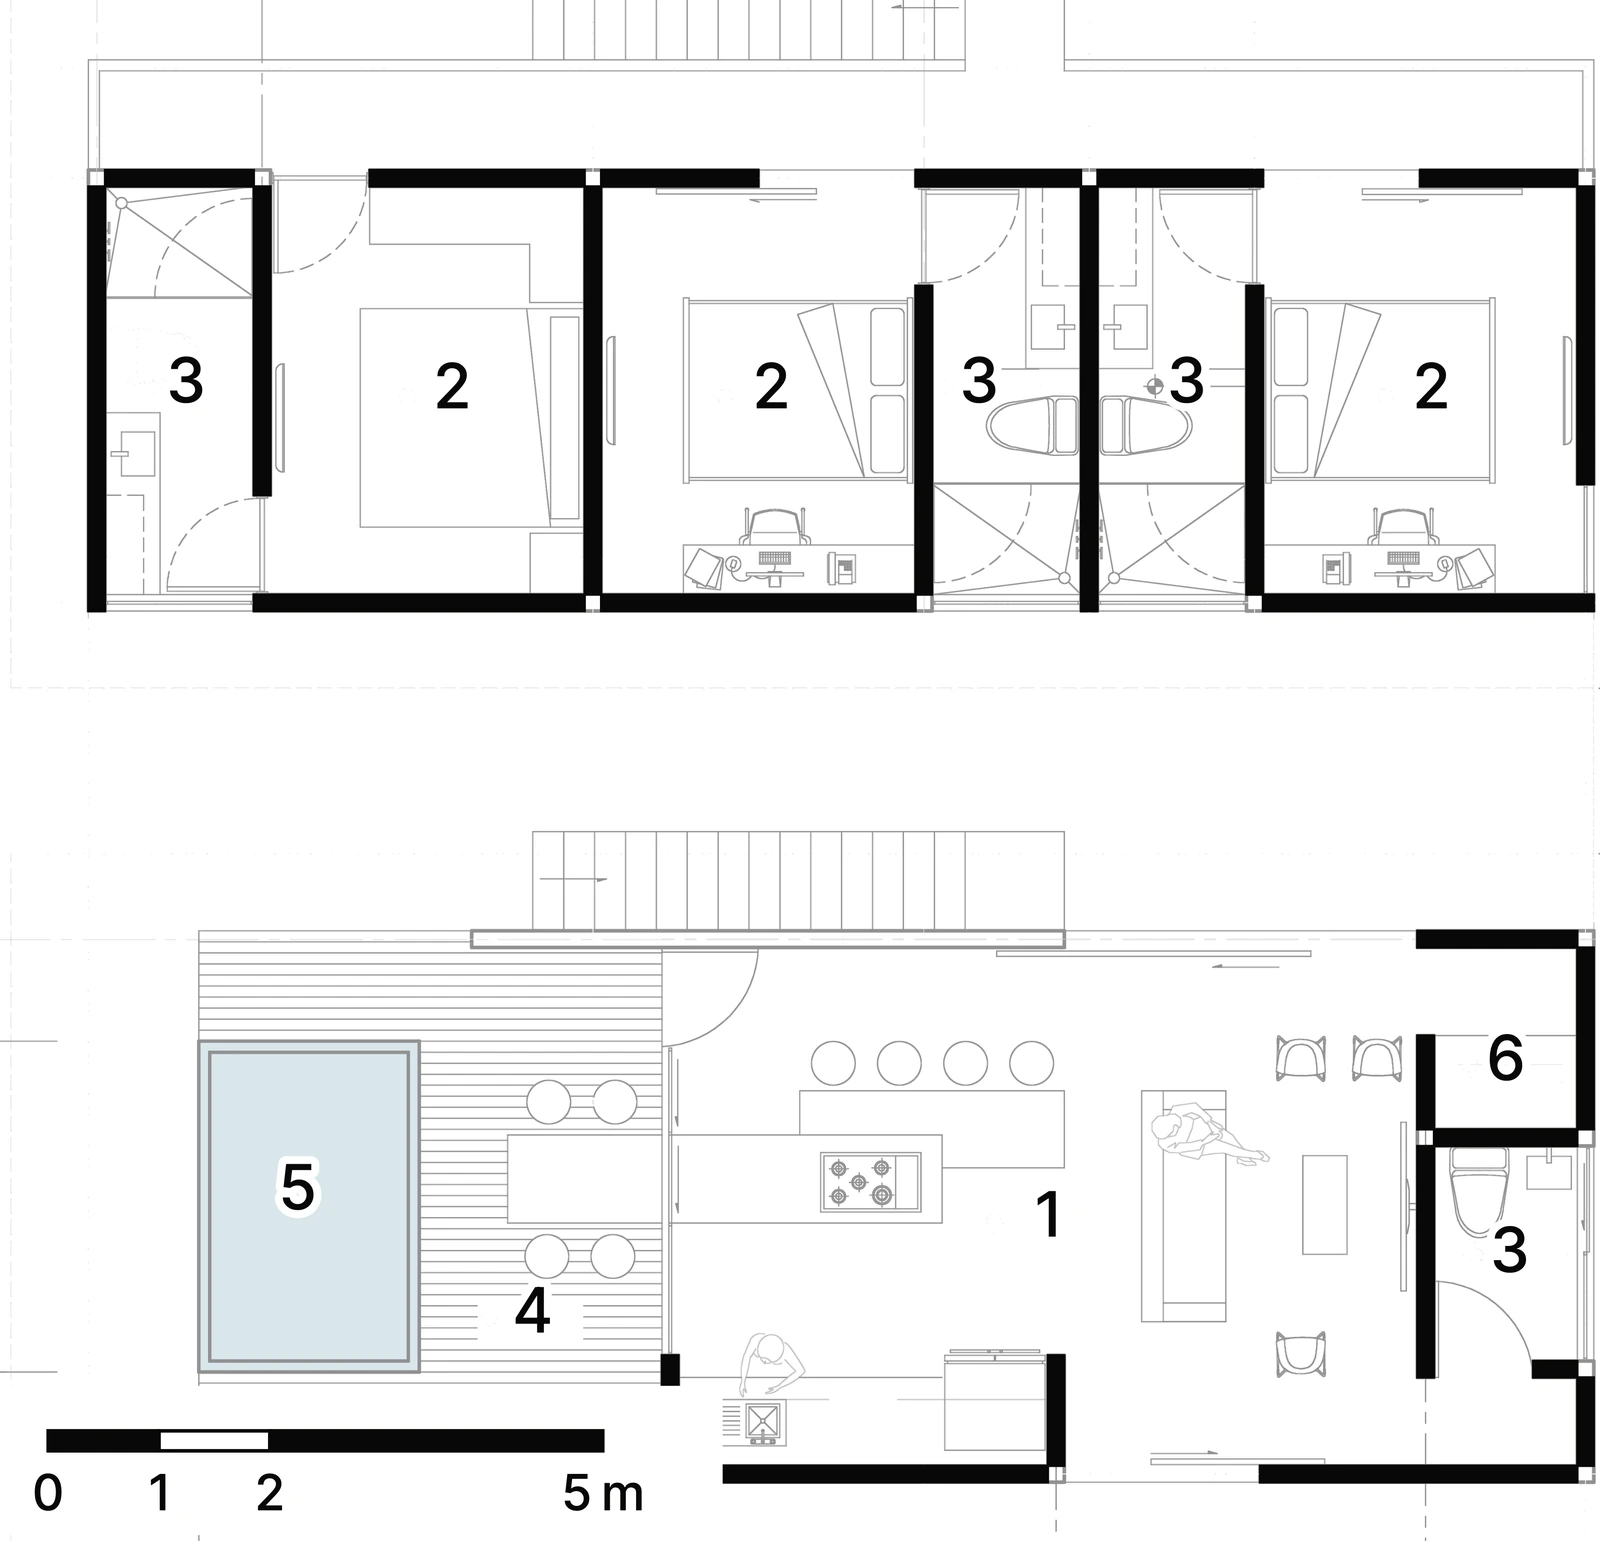
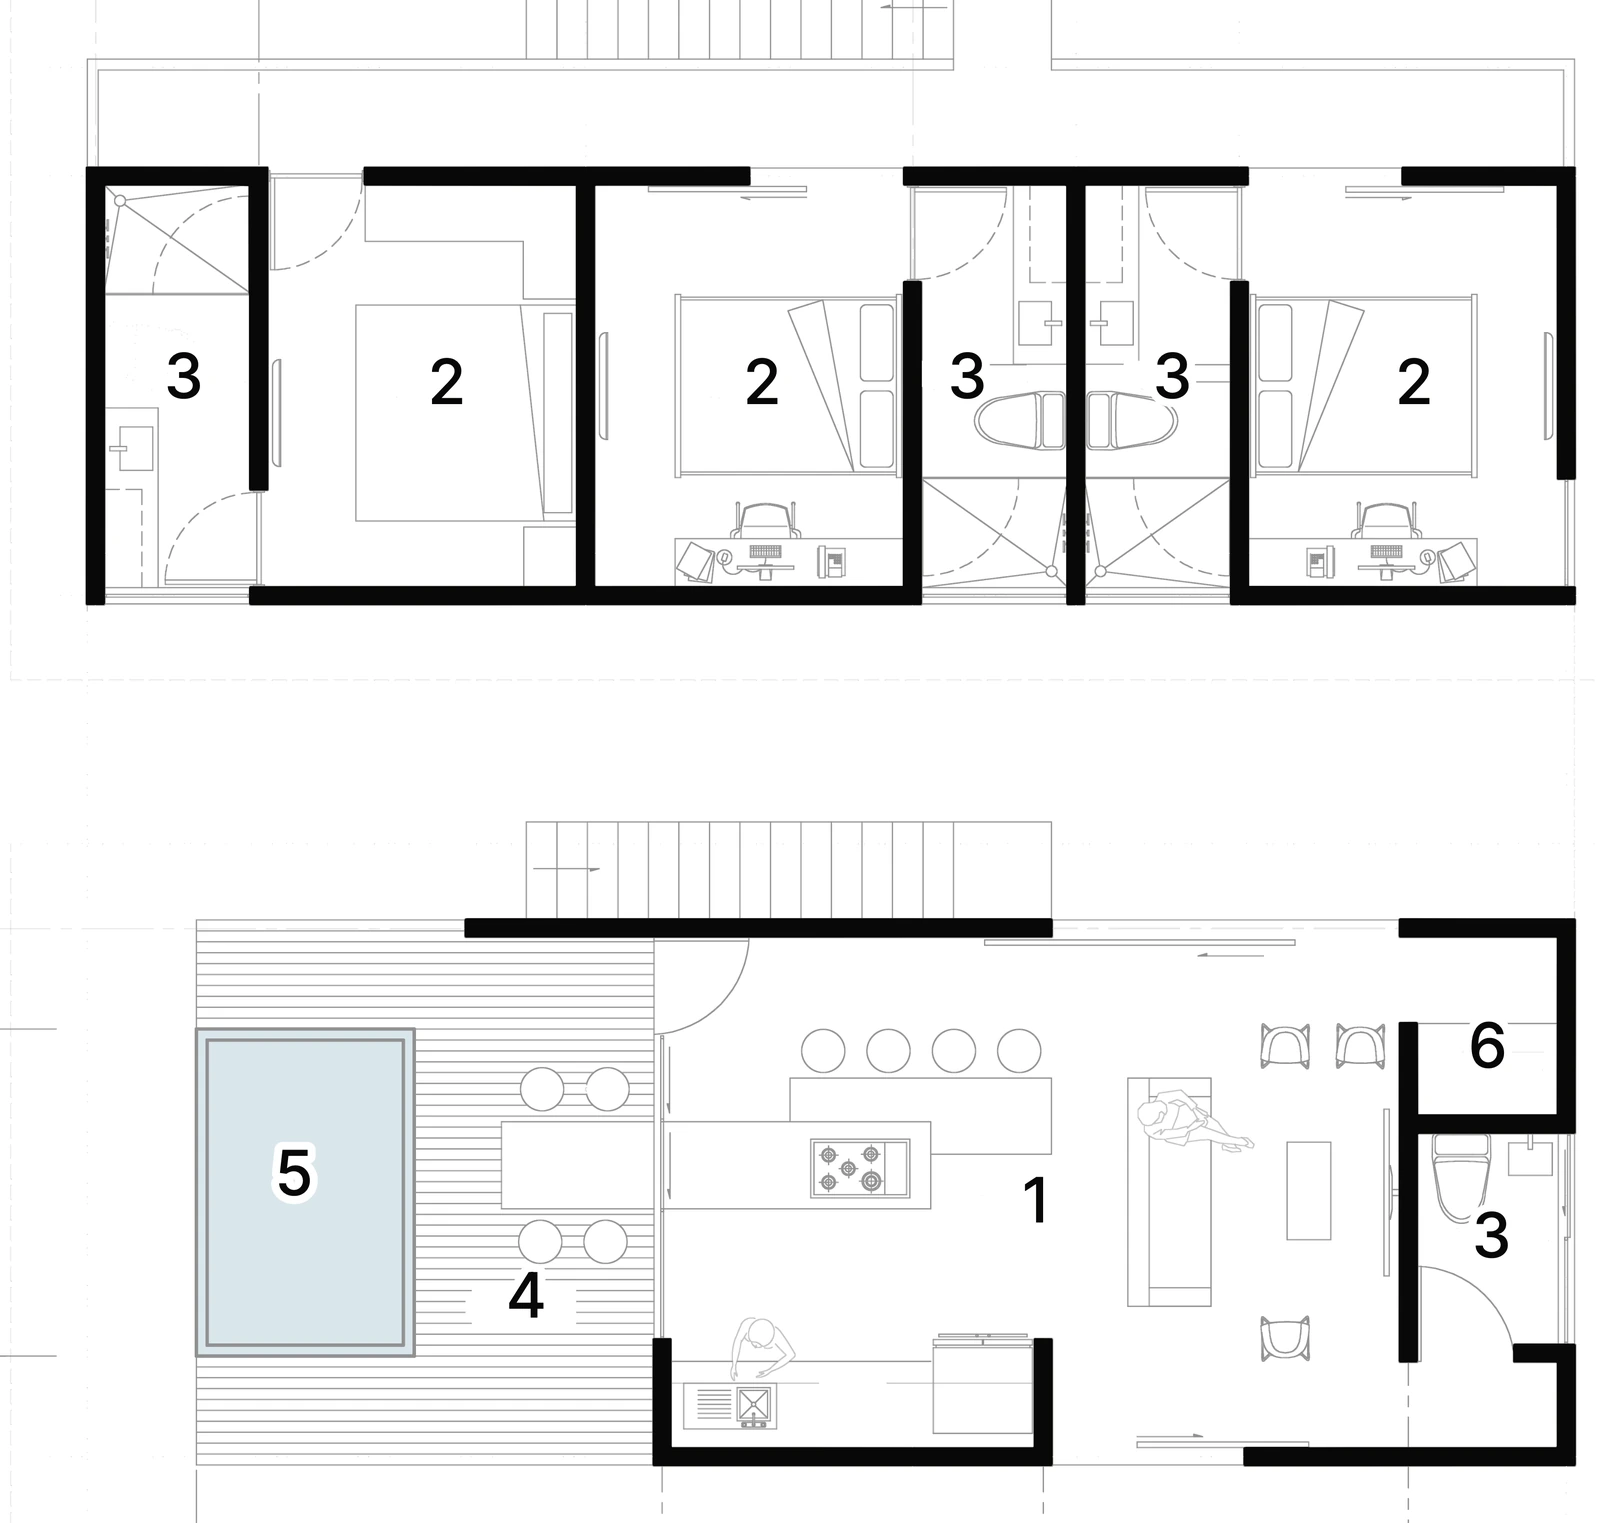
S3 Houses: walls read from the drawing itself, solid corners, no scale bars on the small plans
The heavy wall lines are not plain vectors in these AutoCAD sheets, so walls
are now found in the raster: heavy lines, each pair and its corner square
closed into one solid. Pool edges stay thin; level markers removed.

diff --git a/site/es/proyectos/s3-houses/index.html b/site/es/proyectos/s3-houses/index.html
@@ -65,14 +65,14 @@
       </figure>
     </section>
     <section class="prow grid" aria-label="Planos">
-      <div class="prow__img" style="--c: 1 / span 4; --r: 1 / span 1"><picture><source media="(min-width: 768px)" srcset="../../../assets/img/projects/s3-houses/2-d-800.webp?v=d5ba1291 800w, ../../../assets/img/projects/s3-houses/2-d-1600.webp?v=d5ba1291 1600w, ../../../assets/img/projects/s3-houses/2-d-2400.webp?v=d5ba1291 2400w, ../../../assets/img/projects/s3-houses/2-d-3600.webp?v=d5ba1291 3600w" sizes="32vw" width="1600" height="2078"><img src="../../../assets/img/projects/s3-houses/2-1600.webp?v=67b12683" srcset="../../../assets/img/projects/s3-houses/2-800.webp?v=67b12683 800w, ../../../assets/img/projects/s3-houses/2-1600.webp?v=67b12683 1600w" sizes="100vw" width="1600" height="2078" loading="lazy" decoding="async" alt="Planta de conjunto, numerada: cuatro casas en fila a lo largo de un lote angosto en pendiente, cada una con su piscina, desde una entrada común arriba"></picture></div>
+      <div class="prow__img" style="--c: 1 / span 4; --r: 1 / span 1"><picture><source media="(min-width: 768px)" srcset="../../../assets/img/projects/s3-houses/2-d-800.webp?v=12de1343 800w, ../../../assets/img/projects/s3-houses/2-d-1600.webp?v=12de1343 1600w, ../../../assets/img/projects/s3-houses/2-d-2400.webp?v=12de1343 2400w, ../../../assets/img/projects/s3-houses/2-d-3600.webp?v=12de1343 3600w" sizes="32vw" width="1600" height="2078"><img src="../../../assets/img/projects/s3-houses/2-1600.webp?v=7a61c1da" srcset="../../../assets/img/projects/s3-houses/2-800.webp?v=7a61c1da 800w, ../../../assets/img/projects/s3-houses/2-1600.webp?v=7a61c1da 1600w" sizes="100vw" width="1600" height="2078" loading="lazy" decoding="async" alt="Planta de conjunto, numerada: cuatro casas en fila a lo largo de un lote angosto en pendiente, cada una con su piscina, desde una entrada común arriba"></picture></div>
       <div class="pplan__key prow__key" style="--c: 6 / -1; --r: 1"><p class="label">(Planta de conjunto)</p><ol><li><b>1</b><span>Entrada principal</span></li><li><b>2</b><span>Casa A</span></li><li><b>3</b><span>Casa B</span></li><li><b>4</b><span>Casa C</span></li><li><b>5</b><span>Casa D</span></li></ol></div>
     </section>
     <section class="prow grid" aria-label="Planos">
       <div class="prow__img prow__set" style="--c: 1 / span 7; --r: 1 / span 1">
-        <figure class="prow__fig" style="--w: 488"><picture><source media="(min-width: 768px)" srcset="../../../assets/img/projects/s3-houses/3-d-800.webp?v=12b4ad05 800w, ../../../assets/img/projects/s3-houses/3-d-1600.webp?v=12b4ad05 1600w, ../../../assets/img/projects/s3-houses/3-d-2400.webp?v=12b4ad05 2400w, ../../../assets/img/projects/s3-houses/3-d-3600.webp?v=12b4ad05 3600w" sizes="14vw" width="1600" height="3436"><img src="../../../assets/img/projects/s3-houses/3-1600.webp?v=3a941779" srcset="../../../assets/img/projects/s3-houses/3-800.webp?v=3a941779 800w, ../../../assets/img/projects/s3-houses/3-1600.webp?v=3a941779 1600w" sizes="100vw" width="1490" height="3200" loading="lazy" decoding="async" alt="Plantas de la casa A en dos niveles: el área social, el baño y el dormitorio arriba con la piscina y la terraza al lado, y un dormitorio, un baño y el cuarto de máquinas abajo"></picture><figcaption class="label prow__cap">Casa A</figcaption></figure>
-        <figure class="prow__fig" style="--w: 722"><picture><source media="(min-width: 768px)" srcset="../../../assets/img/projects/s3-houses/4-d-800.webp?v=93dc48f5 800w, ../../../assets/img/projects/s3-houses/4-d-1600.webp?v=93dc48f5 1600w, ../../../assets/img/projects/s3-houses/4-d-2400.webp?v=93dc48f5 2400w, ../../../assets/img/projects/s3-houses/4-d-3600.webp?v=93dc48f5 3600w" sizes="20vw" width="1600" height="1809"><img src="../../../assets/img/projects/s3-houses/4-1600.webp?v=f02f6a9c" srcset="../../../assets/img/projects/s3-houses/4-800.webp?v=f02f6a9c 800w, ../../../assets/img/projects/s3-houses/4-1600.webp?v=f02f6a9c 1600w" sizes="100vw" width="1600" height="1809" loading="lazy" decoding="async" alt="Plantas de la casa B en dos niveles: el área social abierta con la piscina y la terraza abajo, tres dormitorios y dos baños arriba"></picture><figcaption class="label prow__cap">Casa B</figcaption></figure>
-        <figure class="prow__fig" style="--w: 807"><picture><source media="(min-width: 768px)" srcset="../../../assets/img/projects/s3-houses/5-d-800.webp?v=99851663 800w, ../../../assets/img/projects/s3-houses/5-d-1600.webp?v=99851663 1600w, ../../../assets/img/projects/s3-houses/5-d-2400.webp?v=99851663 2400w, ../../../assets/img/projects/s3-houses/5-d-3600.webp?v=99851663 3600w" sizes="22vw" width="1600" height="1541"><img src="../../../assets/img/projects/s3-houses/5-1600.webp?v=07c4ab45" srcset="../../../assets/img/projects/s3-houses/5-800.webp?v=07c4ab45 800w, ../../../assets/img/projects/s3-houses/5-1600.webp?v=07c4ab45 1600w" sizes="100vw" width="1600" height="1541" loading="lazy" decoding="async" alt="Plantas de las casas C y D en dos niveles: el área social con la piscina y la terraza abajo, tres dormitorios y tres baños arriba"></picture><figcaption class="label prow__cap">Casas C y D</figcaption></figure>
+        <figure class="prow__fig" style="--w: 488"><picture><source media="(min-width: 768px)" srcset="../../../assets/img/projects/s3-houses/3-d-800.webp?v=050c15a2 800w, ../../../assets/img/projects/s3-houses/3-d-1600.webp?v=050c15a2 1600w, ../../../assets/img/projects/s3-houses/3-d-2400.webp?v=050c15a2 2400w, ../../../assets/img/projects/s3-houses/3-d-3600.webp?v=050c15a2 3600w" sizes="14vw" width="1600" height="3436"><img src="../../../assets/img/projects/s3-houses/3-1600.webp?v=068033df" srcset="../../../assets/img/projects/s3-houses/3-800.webp?v=068033df 800w, ../../../assets/img/projects/s3-houses/3-1600.webp?v=068033df 1600w" sizes="100vw" width="1490" height="3200" loading="lazy" decoding="async" alt="Plantas de la casa A en dos niveles: el área social, el baño y el dormitorio arriba con la piscina y la terraza al lado, y un dormitorio, un baño y el cuarto de máquinas abajo"></picture><figcaption class="label prow__cap">Casa A</figcaption></figure>
+        <figure class="prow__fig" style="--w: 722"><picture><source media="(min-width: 768px)" srcset="../../../assets/img/projects/s3-houses/4-d-800.webp?v=071f4f16 800w, ../../../assets/img/projects/s3-houses/4-d-1600.webp?v=071f4f16 1600w, ../../../assets/img/projects/s3-houses/4-d-2400.webp?v=071f4f16 2400w, ../../../assets/img/projects/s3-houses/4-d-3600.webp?v=071f4f16 3600w" sizes="20vw" width="1600" height="1809"><img src="../../../assets/img/projects/s3-houses/4-1600.webp?v=d88e74ba" srcset="../../../assets/img/projects/s3-houses/4-800.webp?v=d88e74ba 800w, ../../../assets/img/projects/s3-houses/4-1600.webp?v=d88e74ba 1600w" sizes="100vw" width="1600" height="1809" loading="lazy" decoding="async" alt="Plantas de la casa B en dos niveles: el área social abierta con la piscina y la terraza abajo, tres dormitorios y dos baños arriba"></picture><figcaption class="label prow__cap">Casa B</figcaption></figure>
+        <figure class="prow__fig" style="--w: 807"><picture><source media="(min-width: 768px)" srcset="../../../assets/img/projects/s3-houses/5-d-800.webp?v=ffb45d67 800w, ../../../assets/img/projects/s3-houses/5-d-1600.webp?v=ffb45d67 1600w, ../../../assets/img/projects/s3-houses/5-d-2400.webp?v=ffb45d67 2400w, ../../../assets/img/projects/s3-houses/5-d-3600.webp?v=ffb45d67 3600w" sizes="22vw" width="1600" height="1523"><img src="../../../assets/img/projects/s3-houses/5-1600.webp?v=c4347a0a" srcset="../../../assets/img/projects/s3-houses/5-800.webp?v=c4347a0a 800w, ../../../assets/img/projects/s3-houses/5-1600.webp?v=c4347a0a 1600w" sizes="100vw" width="1600" height="1523" loading="lazy" decoding="async" alt="Plantas de las casas C y D en dos niveles: el área social con la piscina y la terraza abajo, tres dormitorios y tres baños arriba"></picture><figcaption class="label prow__cap">Casas C y D</figcaption></figure>
       </div>
       <div class="pplan__key prow__key" style="--c: 9 / -1; --r: 1"><p class="label">(Casas)</p><ol><li><b>1</b><span>Área social</span></li><li><b>2</b><span>Dormitorio</span></li><li><b>3</b><span>Baño</span></li><li><b>4</b><span>Terraza</span></li><li><b>5</b><span>Piscina</span></li><li><b>6</b><span>Pilas</span></li><li><b>7</b><span>Cuarto de máquinas</span></li></ol></div>
     </section>

diff --git a/site/projects/s3-houses/index.html b/site/projects/s3-houses/index.html
@@ -65,14 +65,14 @@
       </figure>
     </section>
     <section class="prow grid" aria-label="Plans">
-      <div class="prow__img" style="--c: 1 / span 4; --r: 1 / span 1"><picture><source media="(min-width: 768px)" srcset="../../assets/img/projects/s3-houses/2-d-800.webp?v=d5ba1291 800w, ../../assets/img/projects/s3-houses/2-d-1600.webp?v=d5ba1291 1600w, ../../assets/img/projects/s3-houses/2-d-2400.webp?v=d5ba1291 2400w, ../../assets/img/projects/s3-houses/2-d-3600.webp?v=d5ba1291 3600w" sizes="32vw" width="1600" height="2078"><img src="../../assets/img/projects/s3-houses/2-1600.webp?v=67b12683" srcset="../../assets/img/projects/s3-houses/2-800.webp?v=67b12683 800w, ../../assets/img/projects/s3-houses/2-1600.webp?v=67b12683 1600w" sizes="100vw" width="1600" height="2078" loading="lazy" decoding="async" alt="Site plan, numbered: four houses in a row down a narrow sloping lot, each with its own pool, reached from a shared entrance at the top"></picture></div>
+      <div class="prow__img" style="--c: 1 / span 4; --r: 1 / span 1"><picture><source media="(min-width: 768px)" srcset="../../assets/img/projects/s3-houses/2-d-800.webp?v=12de1343 800w, ../../assets/img/projects/s3-houses/2-d-1600.webp?v=12de1343 1600w, ../../assets/img/projects/s3-houses/2-d-2400.webp?v=12de1343 2400w, ../../assets/img/projects/s3-houses/2-d-3600.webp?v=12de1343 3600w" sizes="32vw" width="1600" height="2078"><img src="../../assets/img/projects/s3-houses/2-1600.webp?v=7a61c1da" srcset="../../assets/img/projects/s3-houses/2-800.webp?v=7a61c1da 800w, ../../assets/img/projects/s3-houses/2-1600.webp?v=7a61c1da 1600w" sizes="100vw" width="1600" height="2078" loading="lazy" decoding="async" alt="Site plan, numbered: four houses in a row down a narrow sloping lot, each with its own pool, reached from a shared entrance at the top"></picture></div>
       <div class="pplan__key prow__key" style="--c: 6 / -1; --r: 1"><p class="label">(Site plan)</p><ol><li><b>1</b><span>Main entrance</span></li><li><b>2</b><span>House A</span></li><li><b>3</b><span>House B</span></li><li><b>4</b><span>House C</span></li><li><b>5</b><span>House D</span></li></ol></div>
     </section>
     <section class="prow grid" aria-label="Plans">
       <div class="prow__img prow__set" style="--c: 1 / span 7; --r: 1 / span 1">
-        <figure class="prow__fig" style="--w: 488"><picture><source media="(min-width: 768px)" srcset="../../assets/img/projects/s3-houses/3-d-800.webp?v=12b4ad05 800w, ../../assets/img/projects/s3-houses/3-d-1600.webp?v=12b4ad05 1600w, ../../assets/img/projects/s3-houses/3-d-2400.webp?v=12b4ad05 2400w, ../../assets/img/projects/s3-houses/3-d-3600.webp?v=12b4ad05 3600w" sizes="14vw" width="1600" height="3436"><img src="../../assets/img/projects/s3-houses/3-1600.webp?v=3a941779" srcset="../../assets/img/projects/s3-houses/3-800.webp?v=3a941779 800w, ../../assets/img/projects/s3-houses/3-1600.webp?v=3a941779 1600w" sizes="100vw" width="1490" height="3200" loading="lazy" decoding="async" alt="Plans of house A on two levels: the living area, bathroom and bedroom on the upper level with the pool and terrace beside them, and a bedroom, bathroom and machine room below"></picture><figcaption class="label prow__cap">House A</figcaption></figure>
-        <figure class="prow__fig" style="--w: 722"><picture><source media="(min-width: 768px)" srcset="../../assets/img/projects/s3-houses/4-d-800.webp?v=93dc48f5 800w, ../../assets/img/projects/s3-houses/4-d-1600.webp?v=93dc48f5 1600w, ../../assets/img/projects/s3-houses/4-d-2400.webp?v=93dc48f5 2400w, ../../assets/img/projects/s3-houses/4-d-3600.webp?v=93dc48f5 3600w" sizes="20vw" width="1600" height="1809"><img src="../../assets/img/projects/s3-houses/4-1600.webp?v=f02f6a9c" srcset="../../assets/img/projects/s3-houses/4-800.webp?v=f02f6a9c 800w, ../../assets/img/projects/s3-houses/4-1600.webp?v=f02f6a9c 1600w" sizes="100vw" width="1600" height="1809" loading="lazy" decoding="async" alt="Plans of house B on two levels: the open living area with the pool and terrace below, three bedrooms and two bathrooms above"></picture><figcaption class="label prow__cap">House B</figcaption></figure>
-        <figure class="prow__fig" style="--w: 807"><picture><source media="(min-width: 768px)" srcset="../../assets/img/projects/s3-houses/5-d-800.webp?v=99851663 800w, ../../assets/img/projects/s3-houses/5-d-1600.webp?v=99851663 1600w, ../../assets/img/projects/s3-houses/5-d-2400.webp?v=99851663 2400w, ../../assets/img/projects/s3-houses/5-d-3600.webp?v=99851663 3600w" sizes="22vw" width="1600" height="1541"><img src="../../assets/img/projects/s3-houses/5-1600.webp?v=07c4ab45" srcset="../../assets/img/projects/s3-houses/5-800.webp?v=07c4ab45 800w, ../../assets/img/projects/s3-houses/5-1600.webp?v=07c4ab45 1600w" sizes="100vw" width="1600" height="1541" loading="lazy" decoding="async" alt="Plans of houses C and D on two levels: the living area with the pool and terrace below, three bedrooms and three bathrooms above"></picture><figcaption class="label prow__cap">Houses C and D</figcaption></figure>
+        <figure class="prow__fig" style="--w: 488"><picture><source media="(min-width: 768px)" srcset="../../assets/img/projects/s3-houses/3-d-800.webp?v=050c15a2 800w, ../../assets/img/projects/s3-houses/3-d-1600.webp?v=050c15a2 1600w, ../../assets/img/projects/s3-houses/3-d-2400.webp?v=050c15a2 2400w, ../../assets/img/projects/s3-houses/3-d-3600.webp?v=050c15a2 3600w" sizes="14vw" width="1600" height="3436"><img src="../../assets/img/projects/s3-houses/3-1600.webp?v=068033df" srcset="../../assets/img/projects/s3-houses/3-800.webp?v=068033df 800w, ../../assets/img/projects/s3-houses/3-1600.webp?v=068033df 1600w" sizes="100vw" width="1490" height="3200" loading="lazy" decoding="async" alt="Plans of house A on two levels: the living area, bathroom and bedroom on the upper level with the pool and terrace beside them, and a bedroom, bathroom and machine room below"></picture><figcaption class="label prow__cap">House A</figcaption></figure>
+        <figure class="prow__fig" style="--w: 722"><picture><source media="(min-width: 768px)" srcset="../../assets/img/projects/s3-houses/4-d-800.webp?v=071f4f16 800w, ../../assets/img/projects/s3-houses/4-d-1600.webp?v=071f4f16 1600w, ../../assets/img/projects/s3-houses/4-d-2400.webp?v=071f4f16 2400w, ../../assets/img/projects/s3-houses/4-d-3600.webp?v=071f4f16 3600w" sizes="20vw" width="1600" height="1809"><img src="../../assets/img/projects/s3-houses/4-1600.webp?v=d88e74ba" srcset="../../assets/img/projects/s3-houses/4-800.webp?v=d88e74ba 800w, ../../assets/img/projects/s3-houses/4-1600.webp?v=d88e74ba 1600w" sizes="100vw" width="1600" height="1809" loading="lazy" decoding="async" alt="Plans of house B on two levels: the open living area with the pool and terrace below, three bedrooms and two bathrooms above"></picture><figcaption class="label prow__cap">House B</figcaption></figure>
+        <figure class="prow__fig" style="--w: 807"><picture><source media="(min-width: 768px)" srcset="../../assets/img/projects/s3-houses/5-d-800.webp?v=ffb45d67 800w, ../../assets/img/projects/s3-houses/5-d-1600.webp?v=ffb45d67 1600w, ../../assets/img/projects/s3-houses/5-d-2400.webp?v=ffb45d67 2400w, ../../assets/img/projects/s3-houses/5-d-3600.webp?v=ffb45d67 3600w" sizes="22vw" width="1600" height="1523"><img src="../../assets/img/projects/s3-houses/5-1600.webp?v=c4347a0a" srcset="../../assets/img/projects/s3-houses/5-800.webp?v=c4347a0a 800w, ../../assets/img/projects/s3-houses/5-1600.webp?v=c4347a0a 1600w" sizes="100vw" width="1600" height="1523" loading="lazy" decoding="async" alt="Plans of houses C and D on two levels: the living area with the pool and terrace below, three bedrooms and three bathrooms above"></picture><figcaption class="label prow__cap">Houses C and D</figcaption></figure>
       </div>
       <div class="pplan__key prow__key" style="--c: 9 / -1; --r: 1"><p class="label">(Houses)</p><ol><li><b>1</b><span>Living, kitchen and dining</span></li><li><b>2</b><span>Bedroom</span></li><li><b>3</b><span>Bathroom</span></li><li><b>4</b><span>Terrace</span></li><li><b>5</b><span>Pool</span></li><li><b>6</b><span>Laundry</span></li><li><b>7</b><span>Machine room</span></li></ol></div>
     </section>
